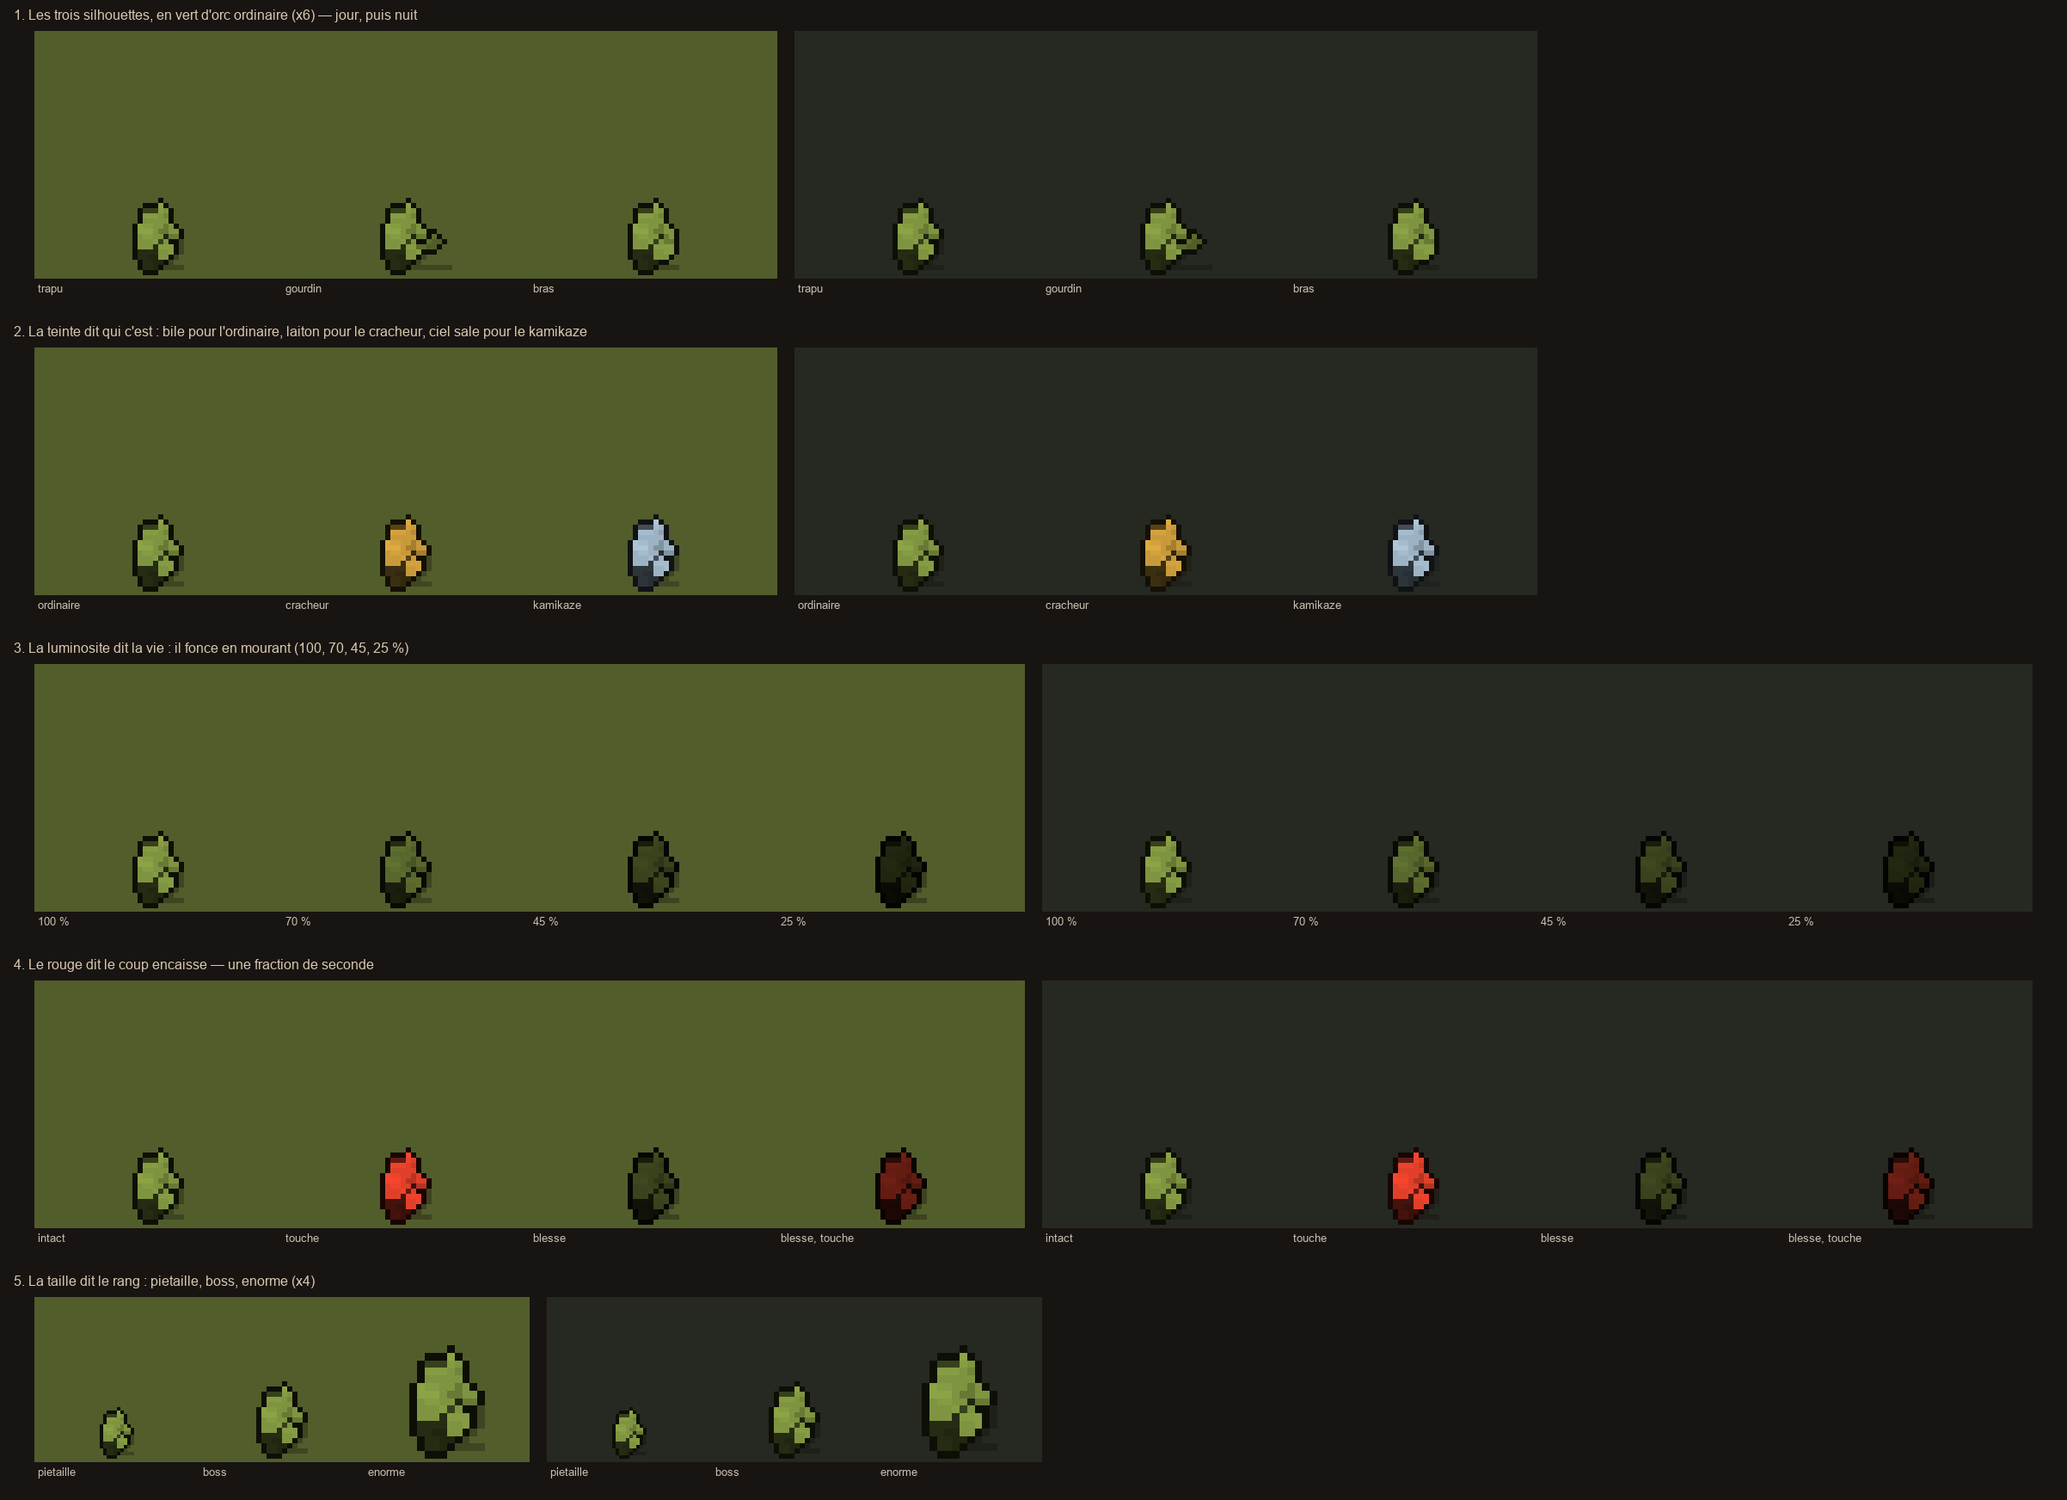
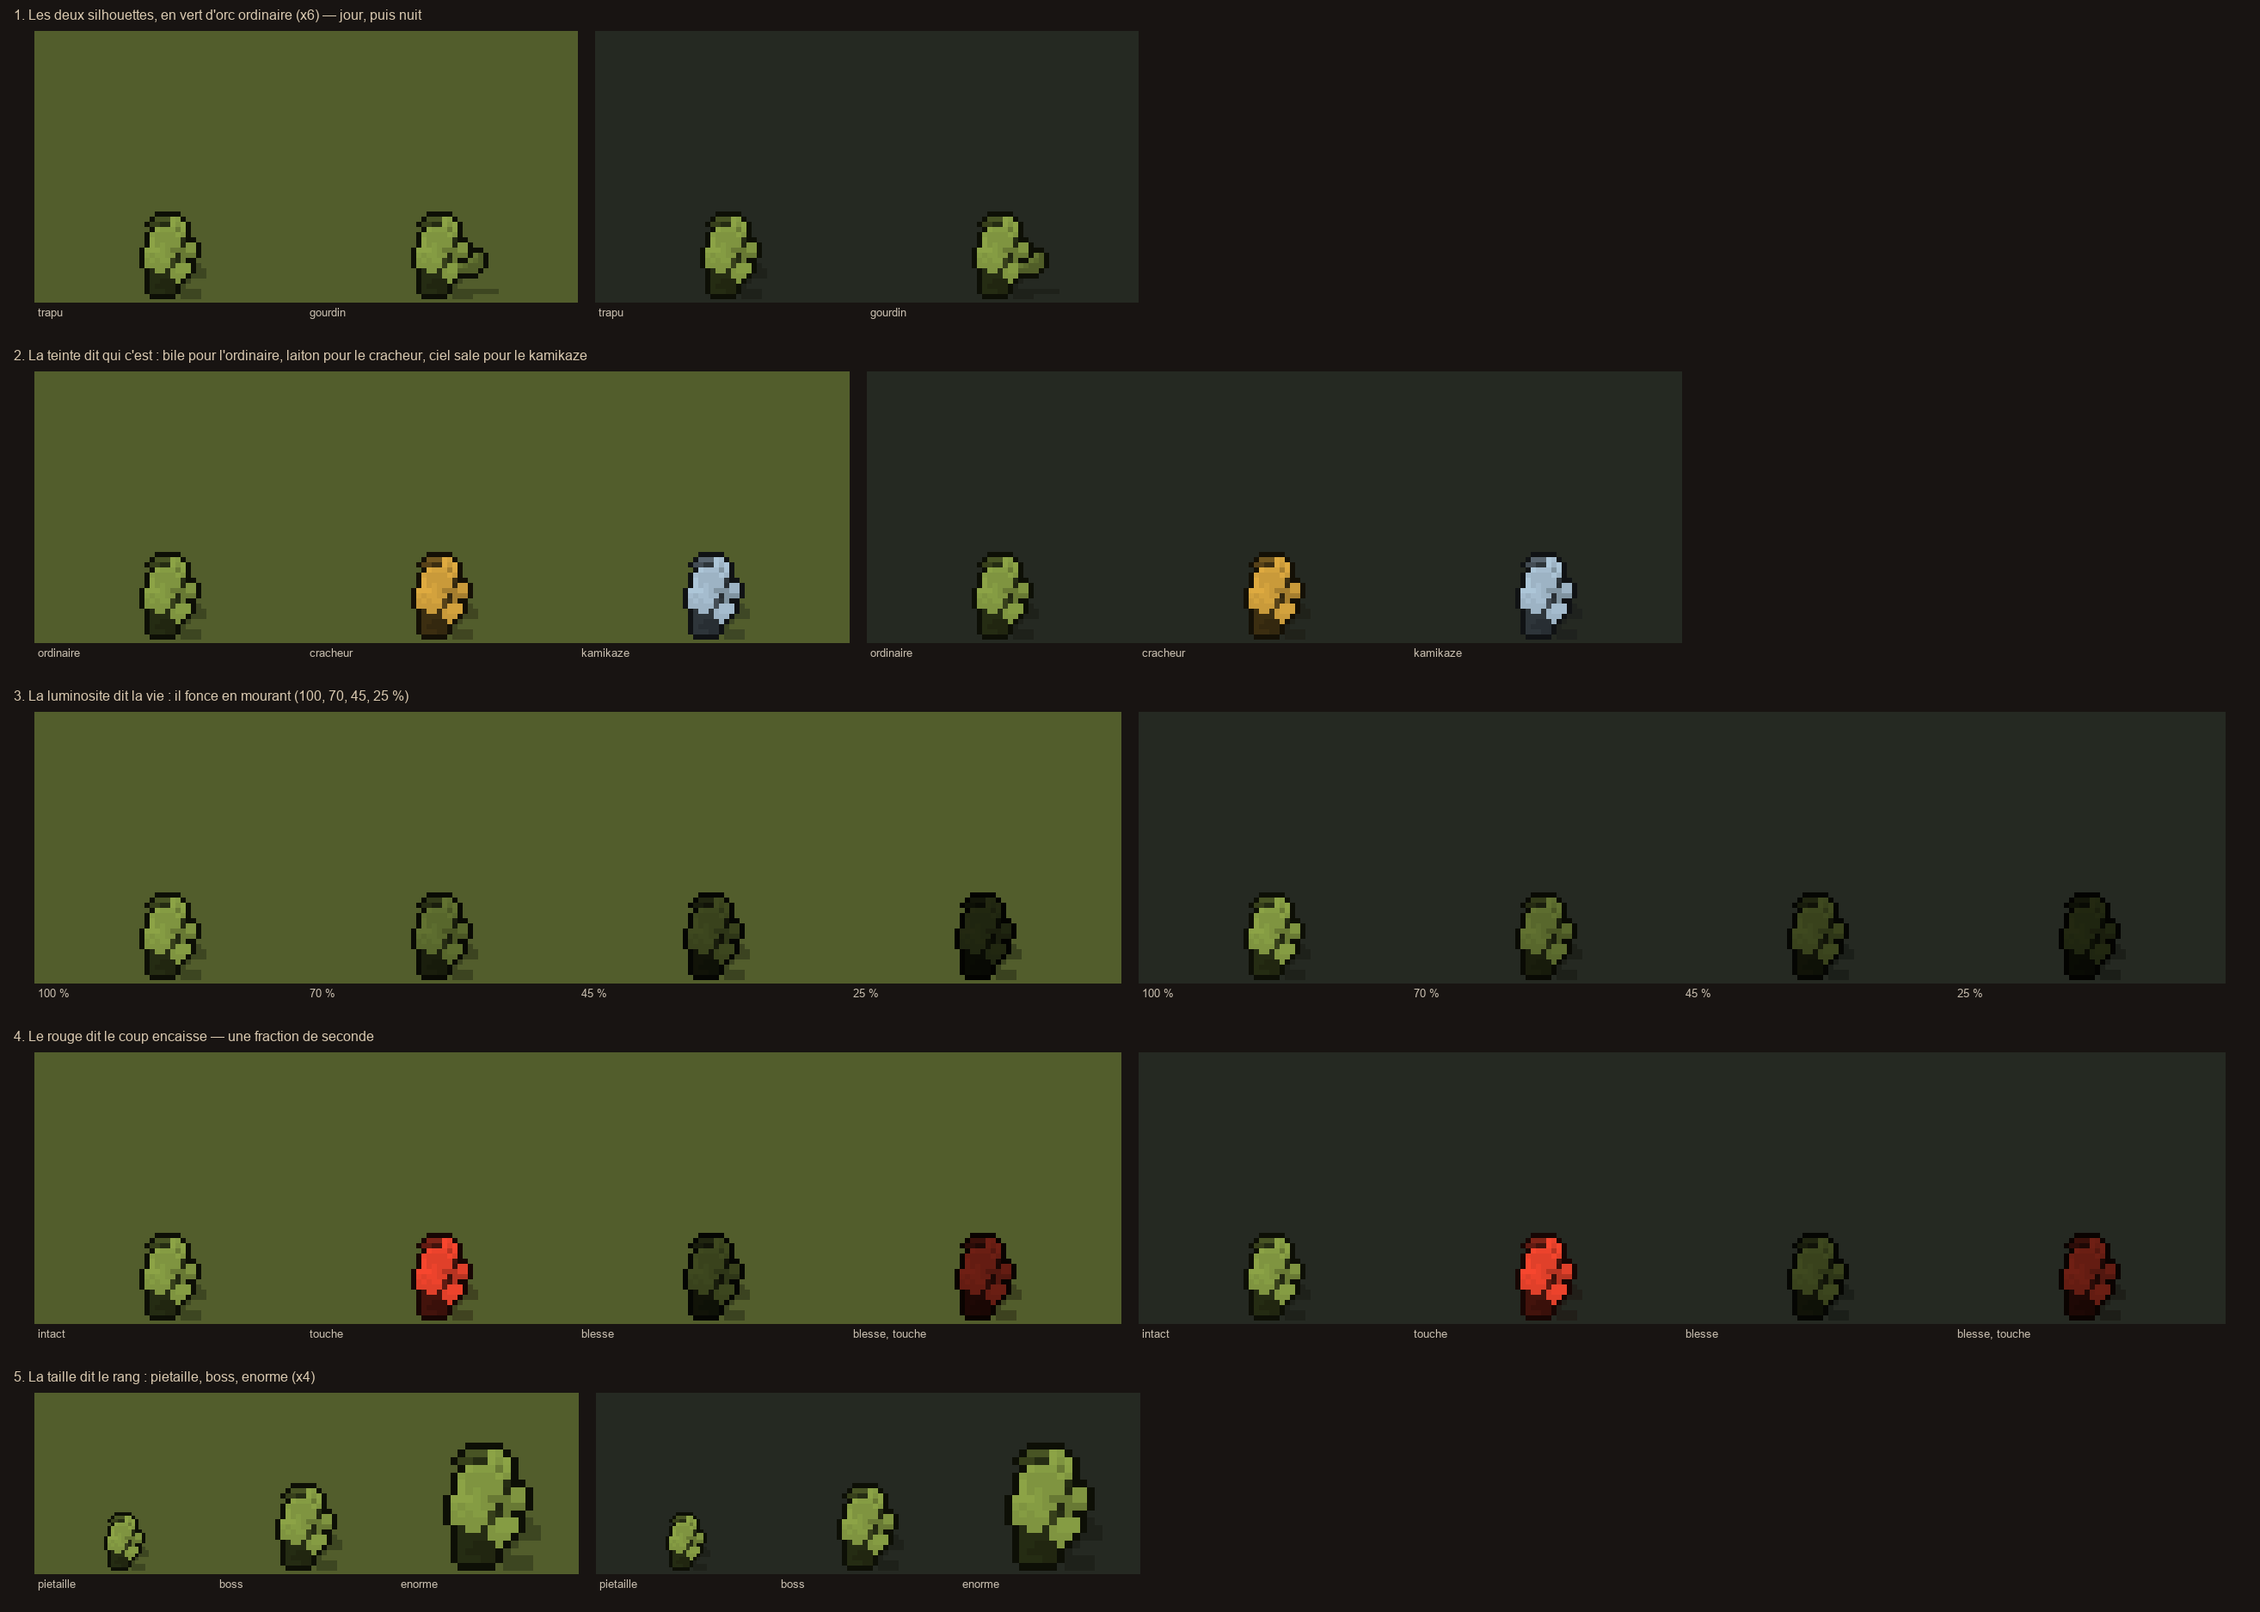
feat(horde): l'orc passe a 24 px, et sa tete se lit enfin
Decision d'Angelos : dans 20 px, la tete de l'orc se fondait dans le buste.
Le corps est agrandi a 24 px et la tete retravaillee (machoire qui avance,
defenses plus longues, creste plus haute, oreilles pointues). Les longs bras
sont abandonnes, indiscernables des mains nues a la taille du jeu. Les
couleurs du langage sont gardees.

diff --git a/scripts/blender/persos.py b/scripts/blender/persos.py
@@ -42,6 +42,8 @@ P = 1.0 / monde.PX_PAR_UNITE
 # bord bas, le milieu un pixel a gauche du centre.
 CADRE = 20
 CADRE_GROS = 30
+# L'orc de la horde (§4.33) : 24, sa tete ne tenait pas dans 20.
+CADRE_ORC = 24
 
 
 def cadre_de(taille):
@@ -218,10 +220,22 @@ def orc(rig, variante):
     trainent jusqu'aux genoux.
     """
     peau = "orc"
+    # ⚠ **Un cadre de 24 px, pas 20** (decision d'Angelos, 22 septembre 2026) :
+    # dans 20, la tete se fondait dans le buste. Tout le corps est ecrit dans
+    # les pixels d'un orc de 20 et agrandi de `K` : la tete, la machoire et les
+    # defenses ont enfin la place d'exister, et l'orc depasse un villageois.
+    K = 24 / 20
+
+    def piece(matiere, taille, pos, parent, rot=(0, 0, 0)):
+        return rig.piece(matiere, tuple(t * K for t in taille), tuple(v * K for v in pos), parent, rot)
+
+    def joint(nom, pos, parent=None):
+        return rig.joint(nom, tuple(v * K for v in pos), parent)
+
     HANCHE, EPAULE = 4.0, 8.6
     TORSE = EPAULE - HANCHE
-    rig.joint("racine", (0, 0, 0))
-    rig.joint("bassin", (0, 0, HANCHE * P), "racine")
+    joint("racine", (0, 0, 0))
+    joint("bassin", (0, 0, HANCHE * P), "racine")
     # ⚠ **Le bas sombre, le haut clair.** Quatre jets presque tout en peau
     # claire sont sortis en blocs gris : a vingt pixels, une matiere est une
     # masse. Le villageois se lit parce que sa tunique sombre domine et que seul
@@ -229,39 +243,42 @@ def orc(rig, variante):
     # pagne sombres, torse, bras et tete clairs. C'est la que la teinte du jeu
     # posera sa couleur, et c'est ce qui se voit d'abord.
     for cote, y in (("avant", -1.5), ("arriere", 1.5)):
-        rig.joint(f"jambe_{cote}", (0, y * P, 0), "bassin")
-        rig.piece("tissu", (2.6, 2.4, HANCHE), (0, 0, -HANCHE / 2), f"jambe_{cote}")
-        rig.piece("tissu", (3.0, 2.6, 1.0), (0.5, 0, -HANCHE + 0.5), f"jambe_{cote}")
-    rig.piece("tissu", (3.4, 6.8, 2.4), (0.1, 0, 0.1), "bassin")
-    rig.joint("buste", (0, 0, 0), "bassin")
-    rig.piece(peau, (3.4, 6.8, TORSE), (0.2, 0, TORSE / 2), "buste")
+        joint(f"jambe_{cote}", (0, y * P, 0), "bassin")
+        piece("tissu", (2.6, 2.4, HANCHE), (0, 0, -HANCHE / 2), f"jambe_{cote}")
+        piece("tissu", (3.0, 2.6, 1.0), (0.5, 0, -HANCHE + 0.5), f"jambe_{cote}")
+    piece("tissu", (3.4, 6.8, 2.4), (0.1, 0, 0.1), "bassin")
+    joint("buste", (0, 0, 0), "bassin")
+    piece(peau, (3.4, 6.8, TORSE), (0.2, 0, TORSE / 2), "buste")
     # la ceinture de cuir et la sangle en travers du torse : deux traits sombres
-    # qui disent le dos voute et le poitrail
-    rig.piece("bois", (3.5, 6.9, 0.7), (0.2, 0, 0.35), "buste")
-    rig.piece("tissu", (0.8, 7.0, TORSE + 0.6), (0.3, 0, TORSE / 2), "buste", rot=(math.radians(0), math.radians(35), 0))
-    rig.piece(peau, (2.4, 7.6, 1.2), (-0.1, 0, TORSE - 0.4), "buste")
-    # la tete : au-dessus des epaules, un peu grosse — a vingt pixels, c'est elle
-    # qu'on reconnait
-    rig.joint("cou", (0.6 * P, 0, (TORSE - 0.2) * P), "buste")
-    rig.piece(peau, (3.4, 3.2, 3.0), (1.0, 0, 1.5), "cou")
-    rig.piece("tissu", (2.8, 1.0, 0.9), (0.6, 0, 3.1), "cou")
-    rig.piece(peau, (1.0, 3.2, 0.7), (2.4, 0, 2.3), "cou")
-    rig.piece("sang", (0.6, 0.6, 0.5), (2.6, -0.75, 1.65), "cou")
-    rig.piece("sang", (0.6, 0.6, 0.5), (2.6, 0.75, 1.65), "cou")
-    rig.piece("os", (0.5, 0.5, 1.1), (2.7, -0.9, 0.55), "cou")
-    rig.piece("os", (0.5, 0.5, 1.1), (2.7, 0.9, 0.55), "cou")
-    avant_bras = 3.4 if variante == "bras" else 2.4
+    piece("bois", (3.5, 6.9, 0.7), (0.2, 0, 0.35), "buste")
+    piece("tissu", (0.8, 7.0, TORSE + 0.6), (0.3, 0, TORSE / 2), "buste", rot=(0, math.radians(35), 0))
+    piece(peau, (2.4, 7.6, 1.2), (-0.1, 0, TORSE - 0.4), "buste")
+    # la tete : grosse, au-dessus des epaules, et **la machoire qui avance** —
+    # c'est elle, avec les defenses, qui fait l'orc plutot qu'une brute
+    joint("cou", (0.6 * P, 0, (TORSE - 0.2) * P), "buste")
+    piece(peau, (3.2, 3.2, 2.6), (0.9, 0, 1.8), "cou")
+    piece(peau, (2.2, 3.0, 1.4), (1.9, 0, 0.7), "cou")
+    piece("tissu", (3.0, 1.1, 1.3), (0.5, 0, 3.4), "cou")
+    piece(peau, (1.0, 3.3, 0.7), (2.4, 0, 2.6), "cou")
+    piece("sang", (0.6, 0.6, 0.5), (2.6, -0.8, 2.0), "cou")
+    piece("sang", (0.6, 0.6, 0.5), (2.6, 0.8, 2.0), "cou")
+    # les defenses : elles sortent de la machoire et montent devant la levre
+    piece("os", (0.6, 0.6, 1.5), (3.05, -1.0, 1.2), "cou")
+    piece("os", (0.6, 0.6, 1.5), (3.05, 1.0, 1.2), "cou")
+    # les oreilles pointues, vers l'arriere
+    rig.cone(peau, 0.7 * K, 1.8 * K, (-0.3 * K, -1.9 * K, 2.2 * K), "cou", cotes=4)
+    rig.cone(peau, 0.7 * K, 1.8 * K, (-0.3 * K, 1.9 * K, 2.2 * K), "cou", cotes=4)
     for cote, y in (("avant", -4.0), ("arriere", 4.0)):
-        rig.joint(f"bras_{cote}", (0.2 * P, y * P, (TORSE - 0.6) * P), "buste")
-        rig.piece(peau, (2.2, 2.0, 2.6), (0, 0, -1.3), f"bras_{cote}")
-        rig.piece(peau, (2.0, 1.8, avant_bras), (0, 0, -2.6 - avant_bras / 2), f"bras_{cote}")
+        joint(f"bras_{cote}", (0.2 * P, y * P, (TORSE - 0.6) * P), "buste")
+        piece(peau, (2.2, 2.0, 2.6), (0, 0, -1.3), f"bras_{cote}")
+        piece(peau, (2.0, 1.8, 2.4), (0, 0, -3.8), f"bras_{cote}")
         # un brassard sombre sur l'avant-bras : le bras garde son coude
-        rig.piece("tissu", (2.1, 1.9, 1.0), (0, 0, -3.1), f"bras_{cote}")
-        rig.piece(peau, (2.4, 2.2, 1.3), (0.2, 0, -2.6 - avant_bras - 0.45), f"bras_{cote}")
-        rig.joint(f"main_{cote}", (0.2 * P, 0, (-2.6 - avant_bras - 0.6) * P), f"bras_{cote}")
+        piece("tissu", (2.1, 1.9, 1.0), (0, 0, -3.1), f"bras_{cote}")
+        piece(peau, (2.4, 2.2, 1.3), (0.2, 0, -5.45), f"bras_{cote}")
+        joint(f"main_{cote}", (0.2 * P, 0, -5.6 * P), f"bras_{cote}")
     if variante == "gourdin":
-        rig.piece("bois", (1.1, 1.1, 4.4), (2.1, 0, -0.75), "main_avant", rot=(0, math.radians(110), 0))
-        rig.piece("bois", (1.9, 1.9, 1.8), (4.0, 0, -1.45), "main_avant", rot=(0, math.radians(110), 0))
+        piece("bois", (1.1, 1.1, 4.4), (2.1, 0, -0.75), "main_avant", rot=(0, math.radians(110), 0))
+        piece("bois", (1.9, 1.9, 1.8), (4.0, 0, -1.45), "main_avant", rot=(0, math.radians(110), 0))
 
 
 def peindre_arme(rig, arme, laiton):
@@ -574,13 +591,15 @@ def familles():
     # L'orc de la horde (§4.33, palier 2, 22 septembre 2026 dans la nuit) : trois
     # silhouettes a l'essai, une seule survivra. Un repos, une image : dans la
     # horde, la marche ne s'anime pas, elle se calcule au dessin.
-    for variante in ("trapu", "gourdin", "bras"):
+    # (les longs bras sont abandonnes : a la taille du jeu, on ne les distinguait
+    # pas des mains nues)
+    for variante in ("trapu", "gourdin"):
         # `garde` : les bras portes en avant, ajoutes a la posture humaine.
         # ⚠ Trois jets bras ballants : vu de flanc, le bras avant pendait entre
         # la camera et le corps et cachait tout, du coude aux hanches — il ne
         # restait qu'une tete sur un bloc clair. En garde, le flanc se decouvre.
         f[f"monstre-orc-{variante}"] = dict(sorte="orc", variante=variante, gestes=[("repos", 1, True)],
-                                            cadre=cadre_de(CADRE), voute=0.2, garde=(0.6, 0.35))
+                                            cadre=cadre_de(CADRE_ORC), voute=0.2, garde=(0.6, 0.35))
     # Les familiers : deux flammes qui flottent, et le golem de pierre.
     for nom, b in FAMILIERS.items():
         f[nom] = dict(sorte="bete", bete=b, gestes=GESTES_BETE, cadre=cadre_de(b["cadre"]))

diff --git a/scripts/blender/planche_orc.py b/scripts/blender/planche_orc.py
@@ -40,7 +40,7 @@ CORPS_ORC = 166
 TYPES = [("ordinaire", BILE), ("cracheur", LAITON), ("kamikaze", CIEL_SALE)]
 VIES = [1.0, 0.7, 0.45, 0.25]
 RANGS = [("pietaille", 1.0), ("boss", 1.5), ("enorme", 2.2)]
-VARIANTES = ["trapu", "gourdin", "bras"]
+VARIANTES = ["trapu", "gourdin"]
 
 
 def charger(variante):
@@ -95,7 +95,7 @@ except OSError:
 
 def bandeau(titre, cellules, zoom, fond_jour, fond_nuit, legendes):
     """Une ligne : les cellules sur le jour, puis les memes sur la nuit."""
-    pas = int(20 * zoom * 2.4)
+    pas = int(24 * zoom * 2.2)
     w = 40 + pas * len(cellules) * 2 + 60
     h = 40 + pas + 30
     img = Image.new("RGBA", (w, h), (24, 20, 18, 255))
@@ -106,7 +106,7 @@ def bandeau(titre, cellules, zoom, fond_jour, fond_nuit, legendes):
         img.alpha_composite(sol(fond, BOITE_JOUR if moitie == 0 else BOITE_NUIT, (pas * len(cellules), pas)), (x0, 36))
         for i, (sprite, echelle) in enumerate(cellules):
             z = zoom * echelle
-            g = sprite.resize((int(20 * z), int(20 * z)), Image.NEAREST)
+            g = sprite.resize((int(sprite.width * z), int(sprite.height * z)), Image.NEAREST)
             img.alpha_composite(g, (x0 + i * pas + (pas - g.width) // 2, 36 + pas - g.height - 4))
             d.text((x0 + i * pas + 4, 36 + pas + 4), legendes[i], fill=(200, 190, 175, 255), font=PETITE)
     return img
@@ -130,7 +130,7 @@ def horde(sprites, zoom, fond, boite, graine=7, n=70):
     for o in sorted(orcs, key=lambda o: o[0]):
         y, x, s = o[0], o[1], o[2]
         e = o[3] if len(o) > 3 else 1.0
-        g = s.resize((int(20 * zoom * e), int(20 * zoom * e)), Image.NEAREST)
+        g = s.resize((int(s.width * zoom * e), int(s.height * zoom * e)), Image.NEAREST)
         img.alpha_composite(g, (x, y))
     return img
 
@@ -140,7 +140,7 @@ def main():
     base = sprites["trapu"]
     lignes = []
     lignes.append(bandeau(
-        "1. Les trois silhouettes, en vert d'orc ordinaire (x6) — jour, puis nuit",
+        "1. Les deux silhouettes, en vert d'orc ordinaire (x6) — jour, puis nuit",
         [(teinter(sprites[v], BILE), 1.0) for v in VARIANTES], 6, JOUR, NUIT, VARIANTES))
     lignes.append(bandeau(
         "2. La teinte dit qui c'est : bile pour l'ordinaire, laiton pour le cracheur, ciel sale pour le kamikaze",

diff --git a/SUITE.md b/SUITE.md
@@ -1607,9 +1607,12 @@ fonce se lit. Deux limites dites franchement : **à 25 % de vie, la nuit, l'orc 
 le noir** ; et **de jour, le vert d'orc sur l'herbe** tient parce qu'il est plus clair
 qu'elle, avec moins de contraste que la nuit.
 
-La **silhouette reste faible** : un bossu trapu aux jambes sombres, dont la tête ne se
-détache pas. En horde, à la taille du jeu, les canaux font le travail — mais on voit de
-petites créatures vertes, pas encore des orcs.
+La silhouette à 20 px restait faible — un bossu trapu dont la tête ne se détachait pas.
+**Décision d'Angelos : un cadre de 24 px.** Sixième jet, avec la tête retravaillée (plus
+grosse, une mâchoire qui avance, des défenses plus longues, une crête plus haute, des
+oreilles pointues) : la tête se lit enfin, l'orc dépasse franchement le villageois, et le
+gourdin se lit comme un gourdin. Les longs bras sont abandonnés — à la taille du jeu, on ne
+les distinguait pas des mains nues. **Les couleurs sont gardées** (Angelos).
 
 **À regarder** : `captures/planches/2026-09-22-orc/` — le langage (1), la horde de jour (2)
 et de nuit (3), les trois silhouettes à côté d'un villageois et d'une bête (4).
